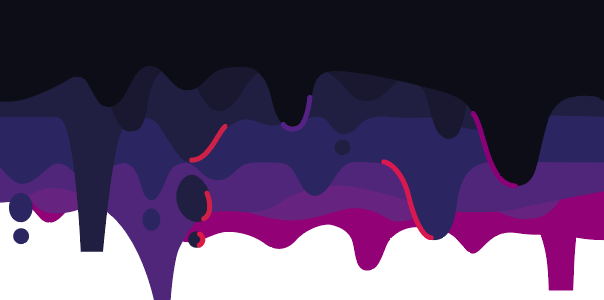
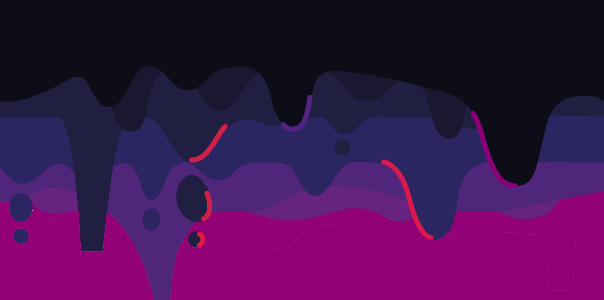
update to newwebite folder
made background dark
added a better description
added todo
replaced the pillar image(still need a better one)
other minor changes

Changed region(s): [[0.0, 0.66, 1.0, 1.0]]

diff --git a/NewWebsite/index.html b/NewWebsite/index.html
@@ -7,29 +7,29 @@
         <div class="title">
             <h1>Life</h1>
             <span id='Welcome'> In A Nutshell</span>
-            <div class="buttons">
-                <button onclick="scrolldown()">about</button>
-                <button>discord</button>
-                <button onclick="window.location.href='../blog/index.html?blogindex=1';">blog</button>
-            </div>
           </div>
+          <div class="buttons">
+            <button onclick="scrolldown()">about</button>
+            <button onclick="window.location.href='https://discord.gg/6dUxhkB';">discord</button>
+            <button onclick="window.location.href='../blog/index.html?blogindex=1';">blog</button>
+            <button onclick="window.location.href='https://www.reddit.com/r/Life_In_A_Nutshell/new/';">reddit</button>
+
+        </div>
 
           
           <canvas id="canvas" width="200" height="200"></canvas>
               <script src="./script.js"></script>
         <div class="decimgup">
-        <img src="./unknown.png" alt="">
-        <img src="./unknown.png" alt="">
-        <img src="./unknown.png" alt="">
+        <img src="./3.png" alt="">
+        <img id="flip" src="./3.png" alt="">
+        <img src="./3.png" alt="">
         </div> 
         <div id="top" class="gamedec">
             <b>life - in a Nutshell</b>
             <br> is a fan made game about game about the human race on the Kardashev scale,
-            where you can play bla bla bla bla bla bla bla bla bla bla bla bla bla bla bla
-            bla bla bla bla bla bla bla bla bla bla bla bla bla bla bla bla bla
-            bla bla bla bla bla bla bla bla bla bla bla bla bla bla bla bla
-            bla bla bla bla bla bla bla bla bla bla bla bla bla bla bla bla bla bla
-            bla bla bla bla bla bla bla bla bla bla bla bla bla bla bla
+            where you make decitions on what your civiliaztion should do.
+            this is not a game from kurzgesagt but a game made by fans.
+            the project is open soucre and avaible on <a href="https://github.com/orgs/kurzgesagt-life/">github </a>
         </div>
        
 
@@ -44,8 +44,8 @@
             </div>
         </div>
         <div class="decimgbottom">
-            <img src="./unknown.png" alt="">
-            <img src="./unknown.png" alt="">
-            <img src="./unknown.png" alt="">
+            <img src="./3.png" alt="">
+            <img src="./3.png" alt="">
+            <img src="./3.png" alt="">
         </div> 
 </html>

diff --git a/NewWebsite/style.css b/NewWebsite/style.css
@@ -1,24 +1,27 @@
 
 
 html,
-body {
+body{
+  font-family: "Josefin Sans", "Arial", sans-serif;
   width: 100vw;
   height: 100vh;
   margin: 0;
   overflow-y: auto;
   overflow-x: hidden;
 }
-.
+
+
 body {
   font-family: "Josefin Sans", "Arial", sans-serif;
-  background: white;
+  background: #15151D ;
   color: #002;
 }
 
 .decimgup img{
   width: 33.37%;
-  margin-top: -22px;
+  margin-top: 0px;
   margin-right: -5px;
+
   
 }
 .decimgbottom img{
@@ -44,12 +47,11 @@ body {
 }
 .buttons{
   position: relative;
-  width: 0%;
-  margin-top: 130px;
-  left: 40%;
-  align-content: center;
-  float: left;
+  width: 100%;
+  top: 60%;
+  margin-left: 7%;
   display: flex;
+  justify-content: center;
   
 }
 .buttons button{
@@ -61,20 +63,8 @@ body {
   border: #891A74;
   border-style: solid;
   border-radius: 5px;
-  margin-right: 120px;
-}.buttons a{
-  width:100px;
-  min-width: 100px;
-  background: #891A74;
-  color: white;
-  height: 40px;
-  border: #891A74;
-  border-style: solid;
-  border-radius: 5px;
-  margin-right: 120px;
-  text-decoration: none;
-  vertical-align: middle;
-  justify-content: center;
+  margin-right: 15%;
+
 }
 
 
@@ -92,7 +82,7 @@ body {
   user-select: none;
 }
 canvas{
-  margin-top: -170;
+  margin-top: -7%;
 
 }
 
@@ -124,11 +114,12 @@ h1 {
   top: 2%;
   color: white;
   border-width: 10px;
-  border: #15151D;
+  border: rgb(21,21,29, 0);
   border-style: solid;
   border-radius: 5px;
-  background: #15151D;
+  background: rgb(21,21,29, 0);
   padding: 1%;
+
 }
 .newsTab{
   height: auto;

diff --git a/NewWebsite/script.js b/NewWebsite/script.js
@@ -5,7 +5,7 @@ const prtclDel = 80;
 const prtclSpd = 0.5;
 const prtclFade = 0.04;
 
-const prtclColBg = "#15151D";
+const prtclColBg = "#0D0D16";
 const prtclCol0 = "#04f";
 const prtclCol1 = "#026";
 const prtclCol2 = "#f04";
